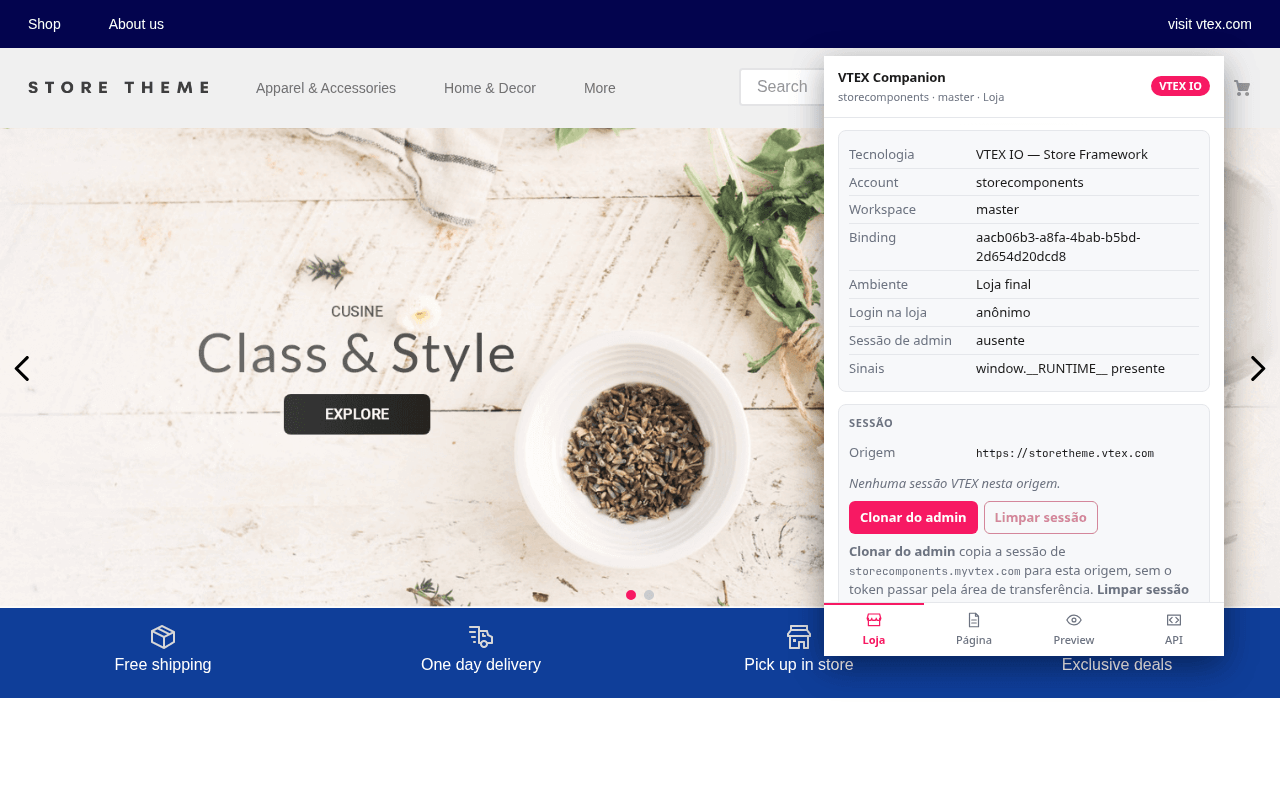
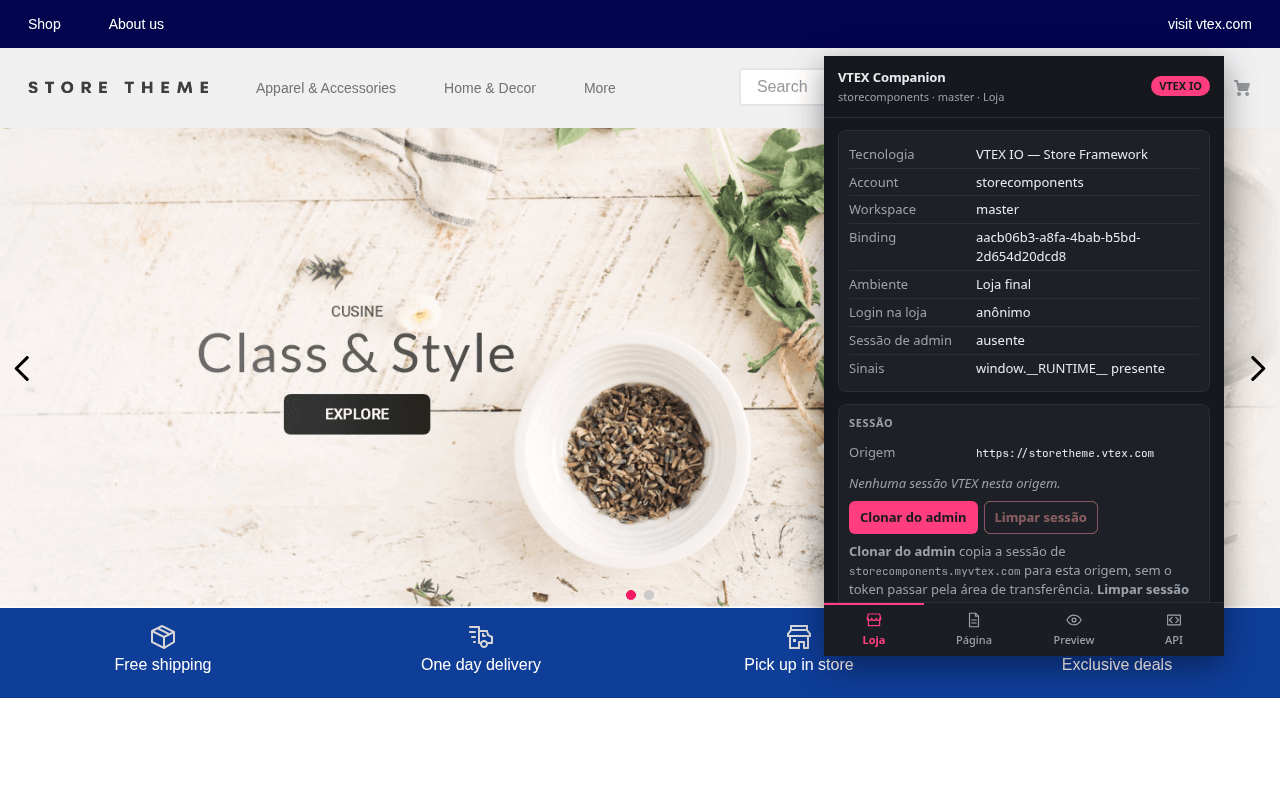
fix(brand): shoot the panel in dark, and frame the SKU list again
Playwright renders with the light scheme, so the three generated captures came
out light while both manual ones — the DevTools panel, photographed from a dark
DevTools — are dark. A set that is half one and half the other reads as
assembled from spare parts, which is the opposite of what a store listing is
for. The panel is emulated dark by default now, with `--theme=light|auto` for
the exceptions.

Only the panel is emulated, never the store page. Almost no VTEX storefront has
a dark mode, and forcing one would photograph a rendering nobody ever sees.

The first shot also had to be repaired. Framing the SKU list meant scrolling its
last item into view, but the selector was `details li` across the whole panel,
and the last of those lives in "Outras origens de terceiros" at the very bottom
of the tab — so the product capture had been showing SEO tags instead. The
scroll is scoped to the SKU disclosure now. It broke in the commit that added
the framing and survived because that run was only checked on the other two.

Changed region(s): [[0.625, 0.0625, 0.9688, 0.8438]]

diff --git a/docs/release.md b/docs/release.md
@@ -40,7 +40,10 @@ as permissões mudam — ver a regra abaixo.
 [o repositório irmão](#o-repositório-irmão).
 
 **Capturas** — `pnpm screenshots`. Elas envelhecem a cada mudança de interface e
-são exigidas em **1280×800 exatos**; a Chrome Web Store recusa 1282×800.
+são exigidas em **1280×800 exatos**; a Chrome Web Store recusa 1282×800. O
+painel sai no tema escuro por padrão, para combinar com as duas capturas
+manuais; `--theme=light` ou `--theme=auto` mudam isso, e um número como
+argumento refaz só aquela.
 
 **Versão** — subir em `package.json`, que é de onde o WXT tira a do manifesto:
 

diff --git a/CLAUDE.md b/CLAUDE.md
@@ -13,6 +13,7 @@ pnpm compile             # tsc --noEmit
 pnpm test                # vitest run
 pnpm test:watch
 pnpm screenshots         # regera as capturas da listagem (ver docs/release.md)
+pnpm screenshots 1 4     # só essas; --theme=light|auto muda o tema do painel
 
 pnpm vitest run lib/preview/rewrite.test.ts       # one file
 pnpm vitest run -t "não gerar loop"               # one test by name
